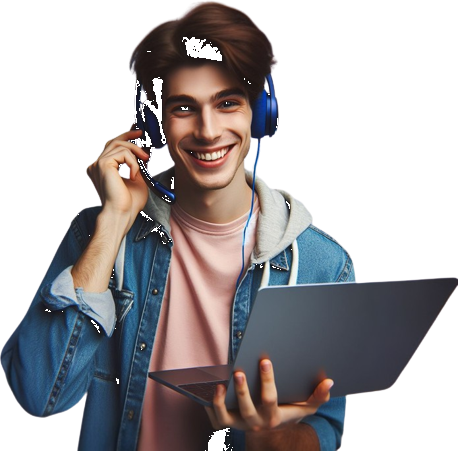
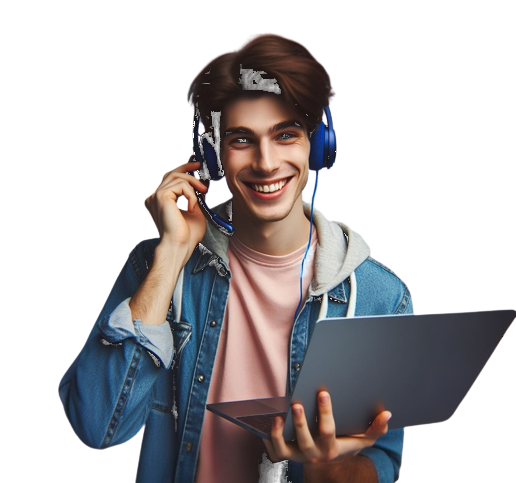
Fix hero person distortion by preserving Figma aspect ratio.

diff --git a/components/landing/Hero.tsx b/components/landing/Hero.tsx
@@ -75,37 +75,39 @@ export function Hero() {
             </p>
           </div>
 
-          {/* Search — Figma visual: lime Search button inside white pill */}
+          {/* Search — Figma: white field + separate lime button */}
           <form
-            className="mx-auto flex h-[52px] w-full max-w-[581px] items-center gap-2 rounded-[24px] bg-white py-1.5 pl-6 pr-1.5 shadow-sm"
+            className="flex w-full max-w-[541px] flex-col items-stretch gap-4 sm:mx-auto sm:max-w-none sm:w-auto sm:flex-row sm:items-center sm:justify-center sm:gap-4"
             role="search"
             action="#courses"
             method="get"
           >
-            <span className="shrink-0 text-muted" aria-hidden>
-              <svg width="24" height="24" viewBox="0 0 24 24" fill="none">
-                <circle cx="11" cy="11" r="7" stroke="currentColor" strokeWidth="1.75" />
-                <path
-                  d="M20 20l-3.5-3.5"
-                  stroke="currentColor"
-                  strokeWidth="1.75"
-                  strokeLinecap="round"
-                />
-              </svg>
-            </span>
-            <label htmlFor="hero-search" className="sr-only">
-              Search courses
-            </label>
-            <input
-              id="hero-search"
-              name="q"
-              type="search"
-              placeholder="Course, topic, creator"
-              className="min-w-0 flex-1 bg-transparent text-base leading-[1.6] text-text placeholder:text-muted focus:outline-none"
-            />
+            <div className="flex h-[52px] w-full items-center gap-2 rounded-[24px] bg-white px-6 sm:w-[461px]">
+              <span className="shrink-0 text-muted" aria-hidden>
+                <svg width="24" height="24" viewBox="0 0 24 24" fill="none">
+                  <circle cx="11" cy="11" r="7" stroke="currentColor" strokeWidth="1.75" />
+                  <path
+                    d="M20 20l-3.5-3.5"
+                    stroke="currentColor"
+                    strokeWidth="1.75"
+                    strokeLinecap="round"
+                  />
+                </svg>
+              </span>
+              <label htmlFor="hero-search" className="sr-only">
+                Search courses
+              </label>
+              <input
+                id="hero-search"
+                name="q"
+                type="search"
+                placeholder="Course, topic, creator"
+                className="min-w-0 flex-1 bg-transparent text-base leading-[1.6] text-text placeholder:text-muted focus:outline-none"
+              />
+            </div>
             <button
               type="submit"
-              className="inline-flex h-full shrink-0 items-center justify-center rounded-[20px] bg-brand-lime px-6 text-lg font-medium text-text transition hover:brightness-95"
+              className="inline-flex h-[52px] shrink-0 items-center justify-center rounded-[24px] bg-brand-lime px-6 text-lg font-medium text-text transition hover:brightness-95"
             >
               Search
             </button>
@@ -153,15 +155,16 @@ export function Hero() {
             className="-right-4 bottom-0 h-[130px] w-[140px] sm:right-[2%] sm:h-[180px] sm:w-[190px] lg:right-[4%] lg:h-[220px] lg:w-[230px]"
           />
 
-          {/* Hero person */}
-          <div className="absolute bottom-0 left-1/2 z-10 w-[min(72%,340px)] -translate-x-1/2 sm:w-[420px] lg:w-[500px]">
+          {/* Hero person — keep Figma aspect 516∶483; width-driven, never stretch */}
+          <div className="absolute bottom-0 left-1/2 z-10 w-[min(78%,340px)] -translate-x-1/2 sm:w-[480px] lg:w-[578px]">
             <Image
               src="/figma/hero-person.png"
               alt="Young man with headphones and laptop smiling"
-              width={916}
-              height={902}
-              className="h-auto w-full object-contain object-bottom"
+              width={516}
+              height={483}
+              className="pointer-events-none h-auto w-full"
               style={{
+                aspectRatio: "516 / 483",
                 filter:
                   "drop-shadow(51px 73px 72px rgba(0,0,0,0.13)) drop-shadow(17px 24px 24px rgba(0,0,0,0.09))",
               }}
